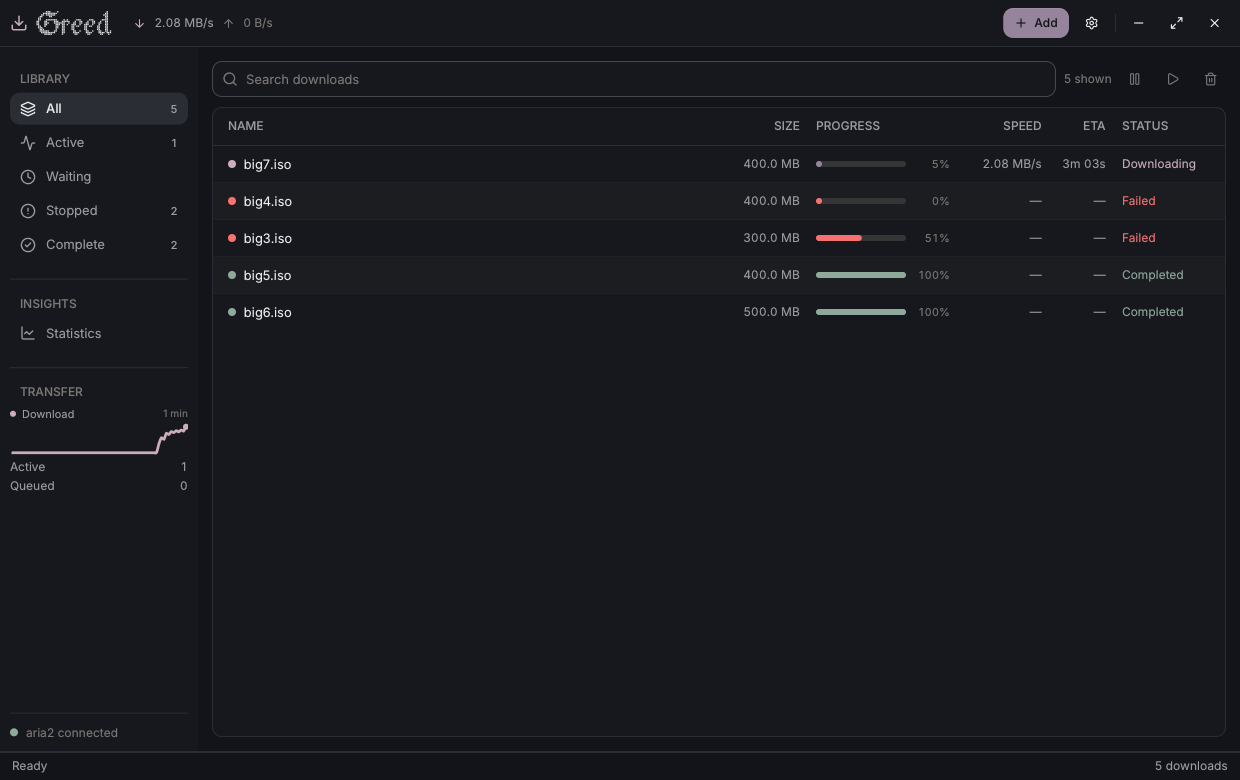
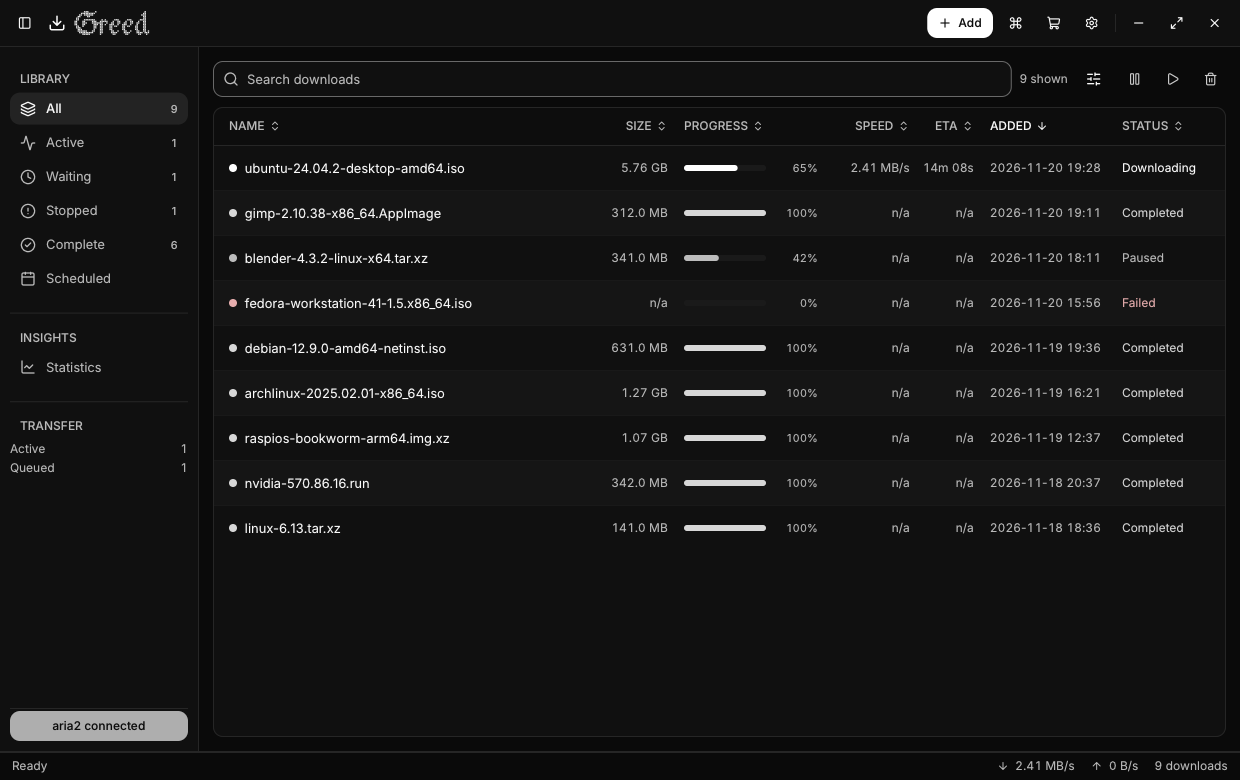
Refresh README header and screenshots

diff --git a/README.md b/README.md
@@ -1,10 +1,12 @@
 # Greed
 
-A dark, keyboard-first download manager for Linux. Greed ships a native GUI and a full
-command-line interface in one C binary, using [aria2](https://aria2.github.io/) as the download
-engine and [CUI](https://github.com/yappologistic/CUI) for its interface.
+**A dark, keyboard-first download manager for Linux.**
 
-![Greed](assets/screenshot.png)
+Greed pairs a native desktop window with a complete command-line interface in one C binary.
+Both drive the same aria2 session: a download started in the window appears in the terminal,
+links handed over by the browser land in the same list, and the core workflow works from the
+keyboard alone. aria2 handles the transfers, CUI draws the interface, and there is no web
+runtime in between.
 
 [![License: GPL-2.0](https://img.shields.io/badge/License-GPL--2.0-1a1a1a?style=for-the-badge&labelColor=000000&logo=gnu&logoColor=ffffff)](LICENSE)
 ![Platform: Linux](https://img.shields.io/badge/Platform-Linux-242424?style=for-the-badge&labelColor=0a0a0a&logo=linux&logoColor=ffffff)
@@ -15,6 +17,15 @@ engine and [CUI](https://github.com/yappologistic/CUI) for its interface.
 ![Themes: 76 built-in](https://img.shields.io/badge/Themes-76_built--in-565656?style=for-the-badge&labelColor=3c3c3c)
 ![Downloads: BitTorrent + Metalink](https://img.shields.io/badge/Downloads-BitTorrent_%2B_Metalink-606060?style=for-the-badge&labelColor=464646)
 ![Display: X11 + XWayland](https://img.shields.io/badge/Display-X11_%2B_XWayland-6a6a6a?style=for-the-badge&labelColor=505050)
+
+![Greed with active, paused, failed and completed downloads](assets/screenshot.png)
+
+<p align="center">
+  <img src="assets/screenshot-statistics.png" width="49%" alt="Statistics view with the throughput chart and download folder">
+  <img src="assets/screenshot-marketplace.png" width="49%" alt="Marketplace with engines, tools and themes">
+</p>
+
+*The Statistics view tracks throughput, transfer limits and free space. The Marketplace screenshot uses the optional Liquid Glass theme.*
 
 ## Contents
 
